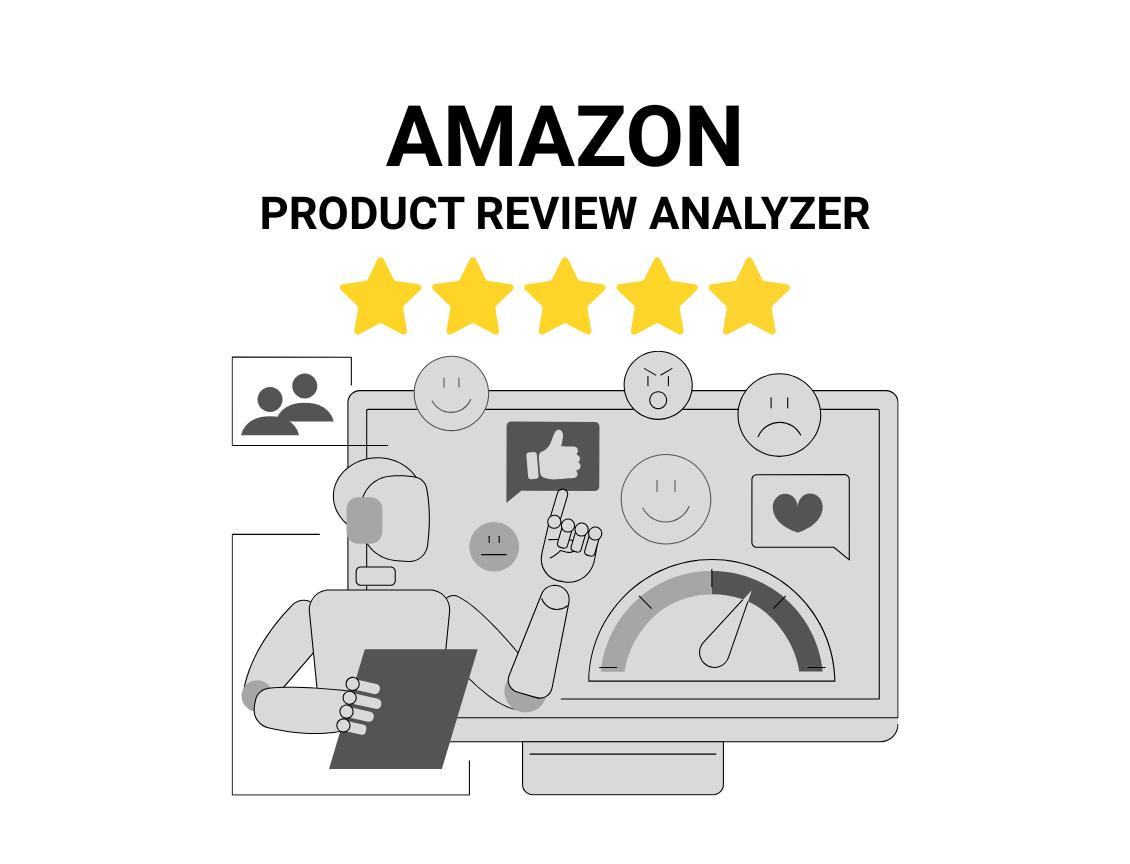
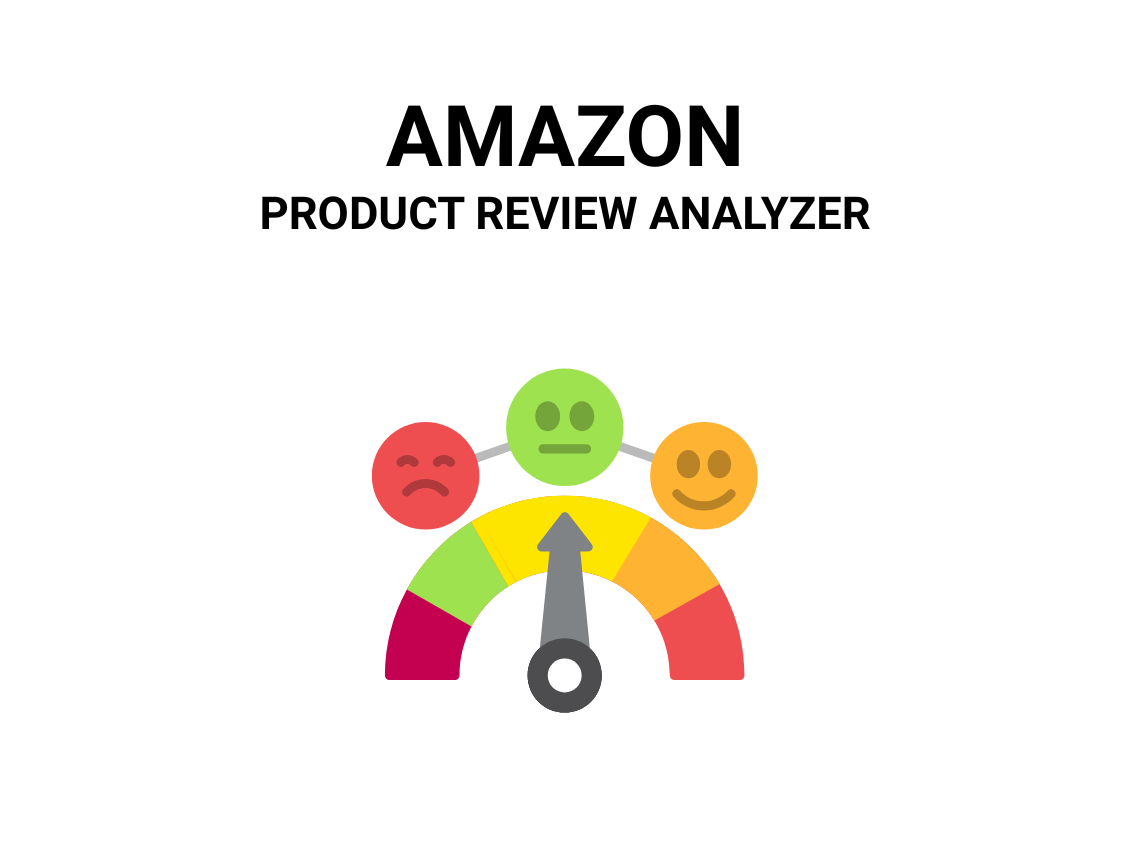
ad

Changed region(s): [[0.1858, 0.2812, 0.8053, 0.9375]]

diff --git a/_posts/2019-07-23-amazon.md b/_posts/2019-07-23-amazon.md
@@ -1,0 +1,13 @@
+---
+layout: inner
+position: left
+title: 'Amazon Product Review Analyzer'
+date: 2019-07-23 14:15:00
+categories: development
+tags: TextBlob NLP Pandas Seaborn
+featured_image: '/img/posts/AMAZON.png'
+project_link: 'https://github.com/tzmughal'
+button_icon: 'github'
+button_text: 'Visit Project'
+lead_text: 'Sentimental analysis and highlights top issues using TextBlob and visual insights'
+---

diff --git a/_posts/2021-07-23-e-commerce-powerbi.md b/_posts/2021-07-23-e-commerce-powerbi.md
@@ -1,0 +1,13 @@
+---
+layout: inner
+position: left
+title: 'E-Commerce Sales Dashboard'
+date: 2021-07-23 15:56:00
+categories: development design
+tags: PowerBI Excel DAX CSV
+featured_image: '/img/posts/POWER-BI.png'
+project_link: 'https://github.com/tzmughal'
+button_text: 'Visit Project'
+button_icon: 'github'
+lead_text: 'Visualizes product, category, and region-wise sales with dynamic KPIs in Power BI'
+---

diff --git a/_posts/2020-07-23-resume.md b/_posts/2020-07-23-resume.md
@@ -1,0 +1,13 @@
+---
+layout: inner
+position: right
+title: 'Resume Parser & Job Matcher'
+date: 2020-07-23 15:56:00
+categories: development design
+tags: Python NLP Pandas
+featured_image: '/img/posts/Resume.png'
+project_link: 'https://github.com/tzmughal'
+button_text: 'Visit Project'
+button_icon: 'github'
+lead_text: 'Extracts resume data and scores match against job descriptions using NLP'
+---

diff --git a/_posts/2022-07-23-business-genai.md b/_posts/2022-07-23-business-genai.md
@@ -1,0 +1,13 @@
+---
+layout: inner
+position: right
+title: 'AI Business Name Generator'
+date: 2022-07-23 15:56:00
+categories: development design
+tags: OpenAI Python Streamlit
+featured_image: '/img/posts/GEN-AI.png'
+project_link: 'https://github.com/tzmughal'
+button_text: 'Visit Project'
+button_icon: 'github'
+lead_text: 'Generates brand names and slogans using GPT and niche keyword input'
+---

diff --git a/_posts/2018-07-23-excel-vba.md b/_posts/2018-07-23-excel-vba.md
@@ -1,0 +1,13 @@
+---
+layout: inner
+position: right
+title: ' Automated Excel Chart Builder'
+date: 2018-07-23 15:56:00
+categories: development
+tags: Excel VBA MAcros
+featured_image: '/img/posts/EXCEL.png'
+project_link: 'https://github.com/tzmughal'
+button_icon: 'github'
+button_text: 'Visit Project'
+lead_text: 'VBA macro tool that auto-generates charts based on column data types'
+---
